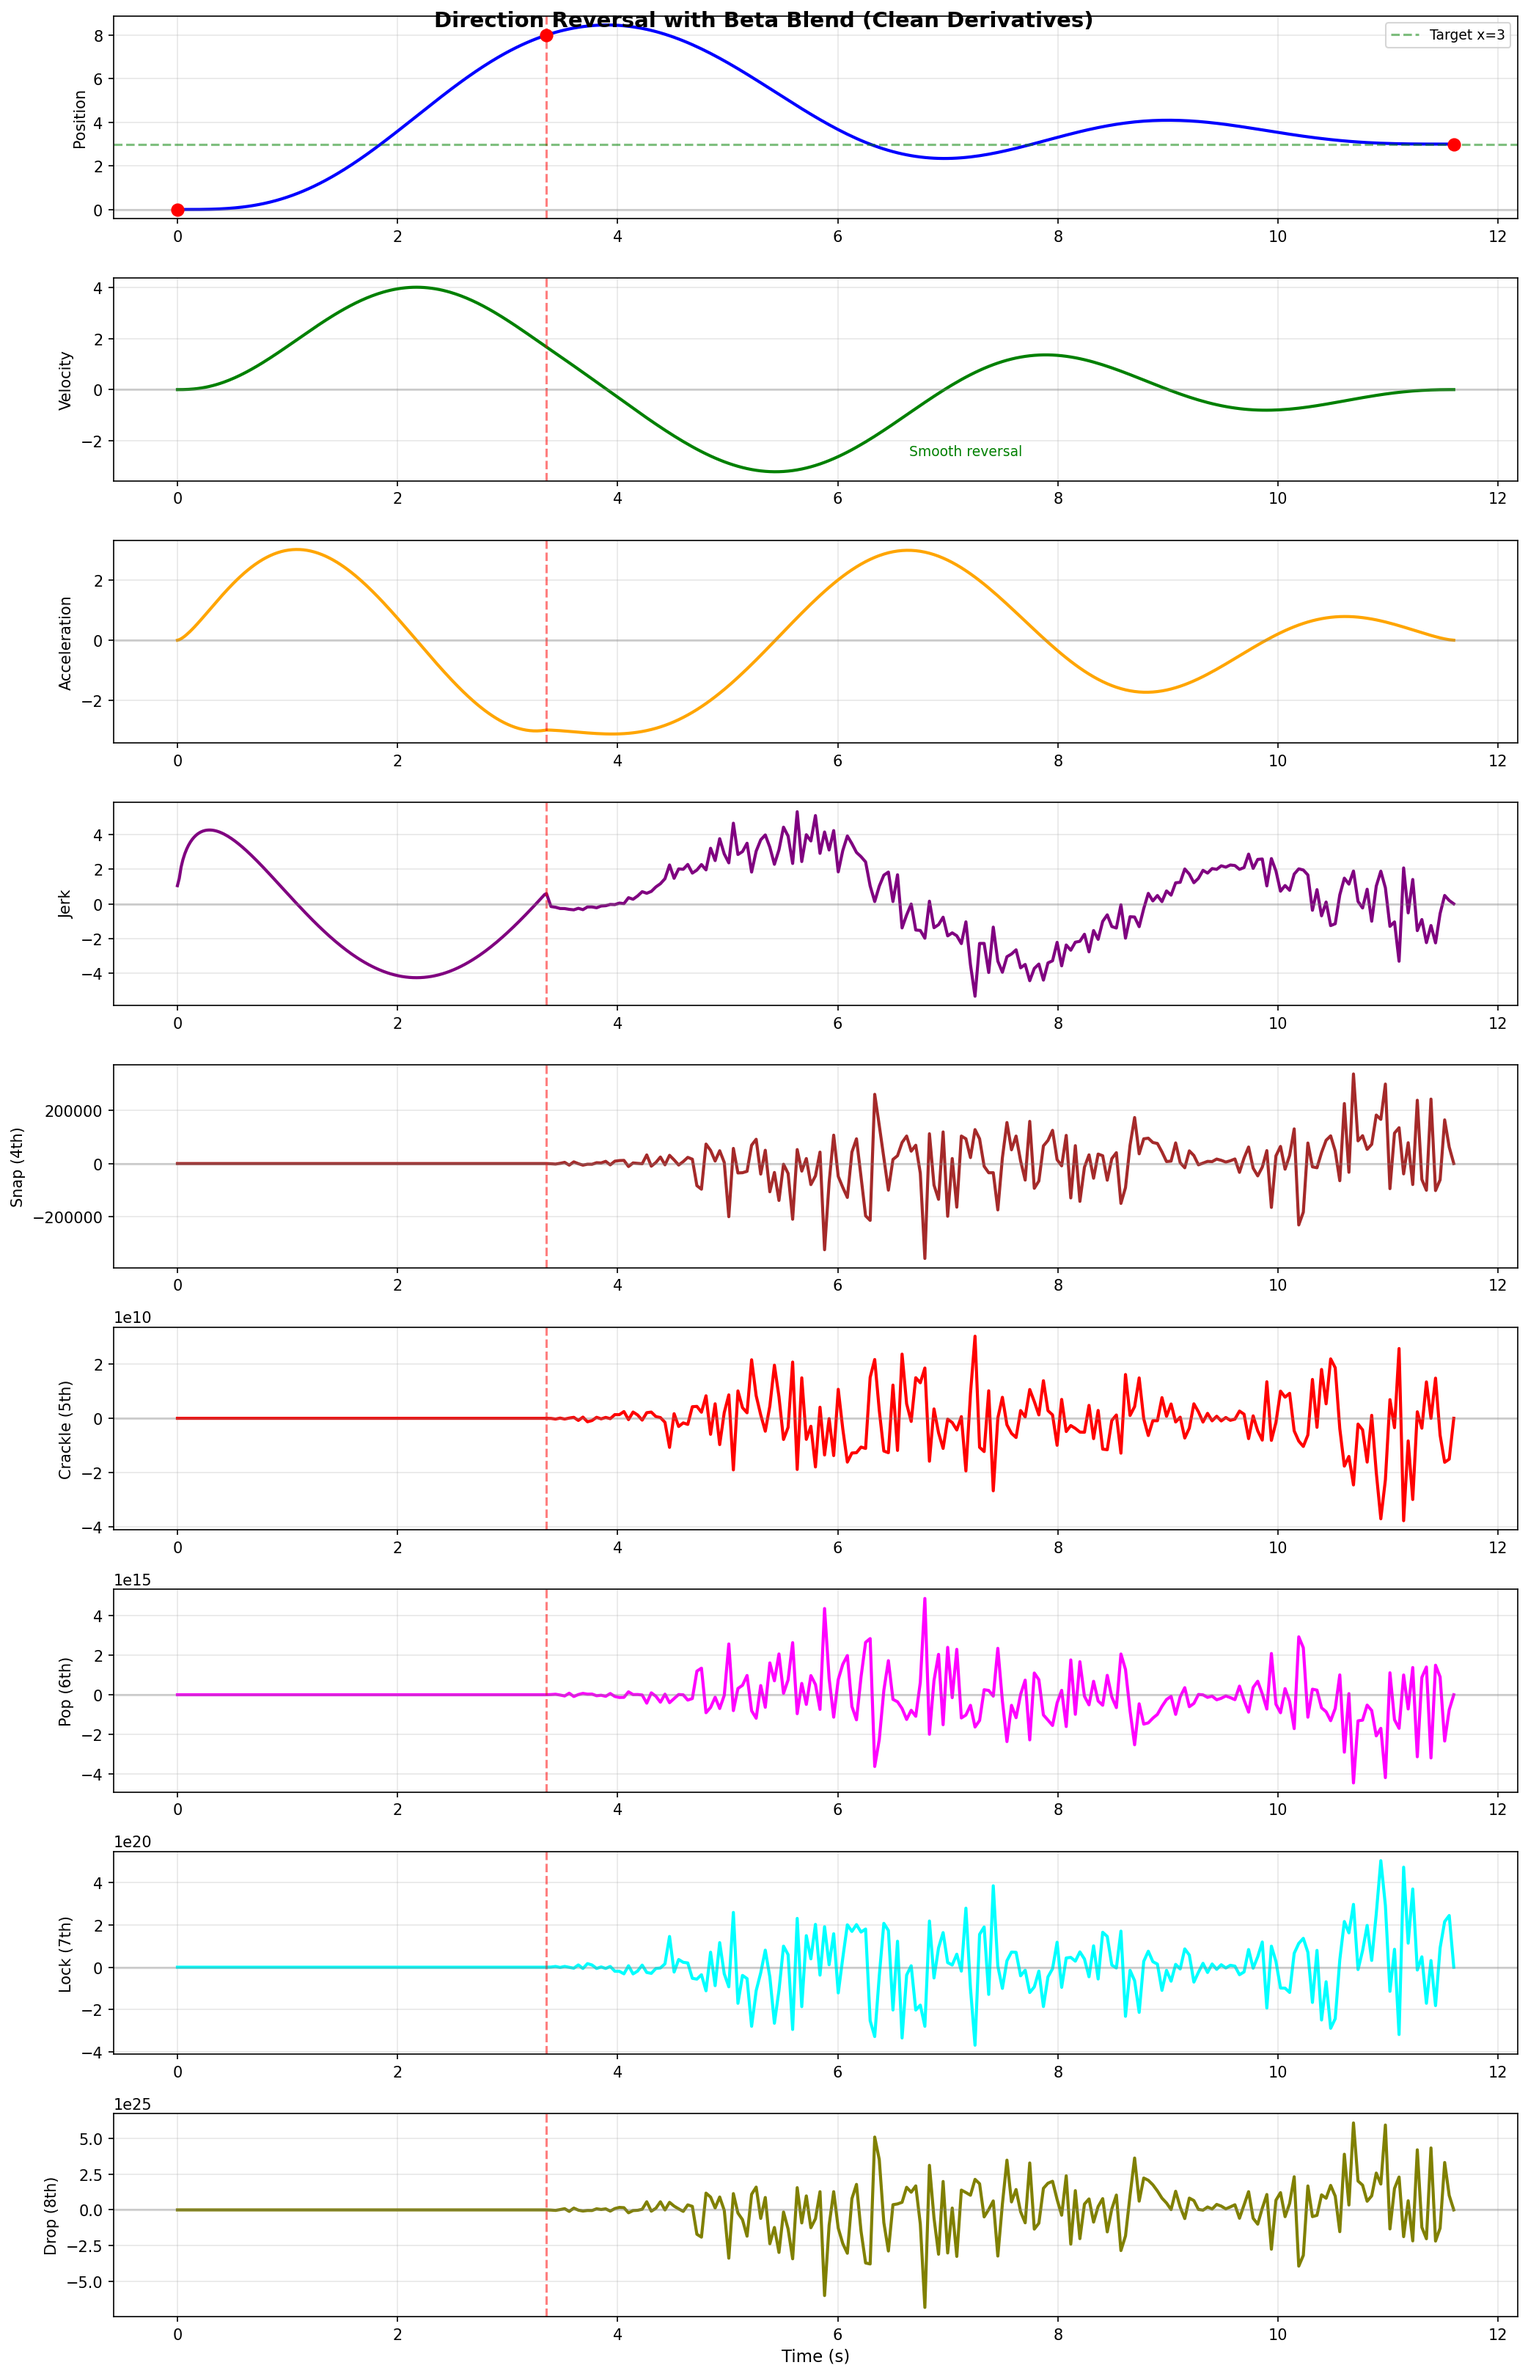
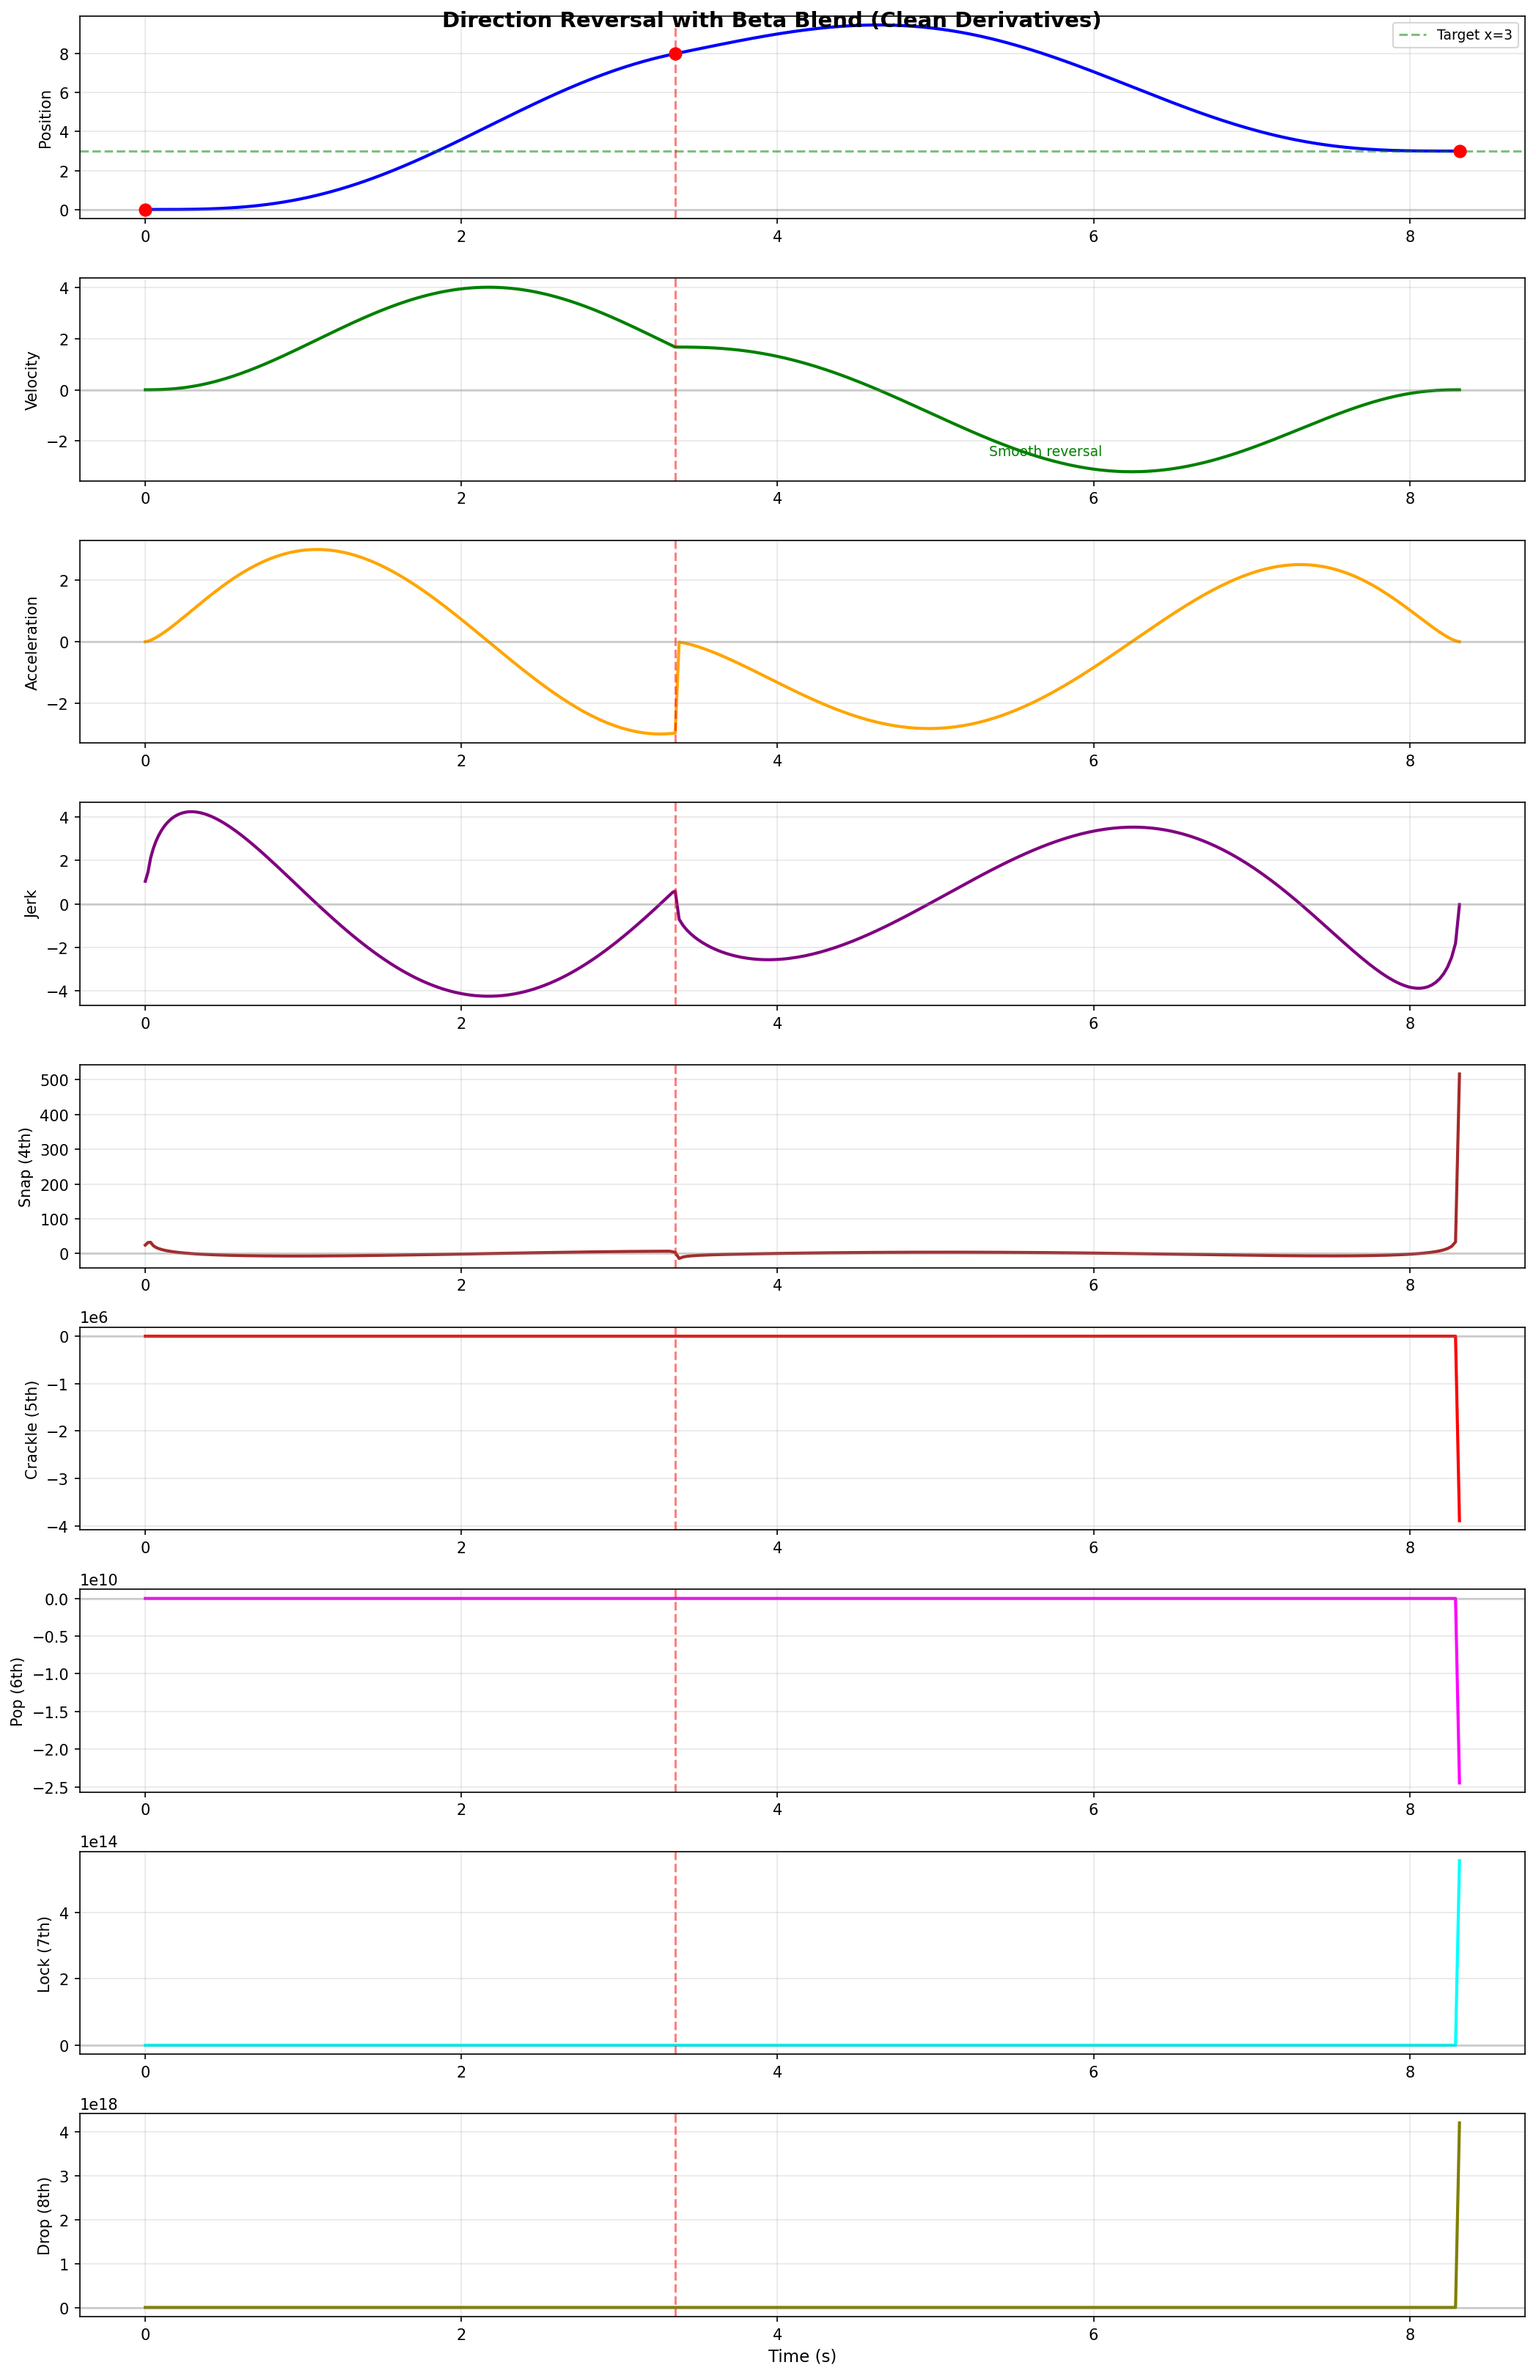
Simplify BetaBlendMotion to match only position and velocity
The previous formulation matching acceleration caused T² blowup issues,
resulting in position trajectories going wildly out of bounds (e.g., -600).

New formula: x(t) = x0 + Δx*β(τ) + v0*T*τ*(1-β(τ))

This ensures:
- Position: x(0) = x0, x(T) = x_target ✓
- Velocity: v(0) = v0, v(T) = 0 ✓
- Smooth S-curve transition without T² terms

Trade-off: Acceleration has discontinuity at transition points, but
position/velocity remain continuous and trajectories stay bounded.

diff --git a/src/scurvebeta/generalized.py b/src/scurvebeta/generalized.py
@@ -1234,16 +1234,18 @@ class BetaBlendMotion:
         """
         Compute the k-th derivative of position at time t.
 
-        Uses τ-normalized formulation to prevent T^n blowup:
-        x(t) = x0 + (x_target - x0) * β(τ) + v0*T * φ₁(τ) + 0.5*a0*T² * φ₂(τ) + ...
+        Simple τ-normalized formulation that matches position and velocity only:
+        x(t) = x0 + (x_target - x0) * β(τ) + v0*T * φ₁(τ)
 
         where:
         - τ = t/T ∈ [0,1]
-        - φ₁(τ) = τ*(1-β(τ)) matches velocity at τ=0
-        - φ₂(τ) = τ²*(1-β(τ))² matches acceleration at τ=0
-        """
-        from math import factorial
+        - φ₁(τ) = τ*(1-β(τ)) matches velocity at τ=0, goes to 0 at τ=1
 
+        This avoids the T² blowup from acceleration matching while ensuring:
+        - x(0) = x0, x(T) = x_target
+        - v(0) = v0, v(T) = 0
+        - Smooth S-curve transition
+        """
         t = np.asarray(t, dtype=float)
         scalar = t.ndim == 0
         t = np.atleast_1d(t)
@@ -1253,8 +1255,8 @@ class BetaBlendMotion:
         k = order
         tau = t / T
 
-        # Get β and its derivatives w.r.t. τ (up to order k)
-        beta_derivs = _beta_s_derivatives(tau, max_order=k)
+        # Get β and its derivatives w.r.t. τ
+        beta_derivs = _beta_s_derivatives(tau, max_order=max(k, 1))
         beta = beta_derivs[0]
         one_minus_beta = 1 - beta
 
@@ -1262,62 +1264,28 @@ class BetaBlendMotion:
         dx_target = self.x_target - self.x0
 
         if k == 0:
-            # x(t) = x0 + Δx*β + v0*T*τ*(1-β) + 0.5*a0*T²*τ²*(1-β)² + ...
-            result = self.x0 + dx_target * beta
-            result += self.v0 * T * tau * one_minus_beta
-            result += 0.5 * self.a0 * T**2 * tau**2 * one_minus_beta**2
-            result += (1/6) * self.j0 * T**3 * tau**3 * one_minus_beta**3
+            # x(t) = x0 + Δx*β + v0*T*τ*(1-β)
+            result = self.x0 + dx_target * beta + self.v0 * T * tau * one_minus_beta
+        elif k == 1:
+            # v(t) = Δx*β'/T + v0*[(1-β) - τ*β']
+            beta_prime = beta_derivs[1]
+            result = dx_target * beta_prime / T + self.v0 * (one_minus_beta - tau * beta_prime)
+        elif k == 2:
+            # a(t) = Δx*β''/T² + v0*[-2β'/T - τ*β''/T]
+            beta_prime = beta_derivs[1]
+            beta_double_prime = beta_derivs[2] if len(beta_derivs) > 2 else np.zeros_like(tau)
+            result = dx_target * beta_double_prime / (T**2)
+            result += self.v0 * (-2 * beta_prime / T - tau * beta_double_prime / T)
         else:
-            # Use Leibniz rule for derivatives
-            # For the β term: d^k/dt^k[β(τ)] = β^(k)(τ) / T^k
-            result = dx_target * beta_derivs[k] / (T ** k) if k <= len(beta_derivs) - 1 else np.zeros_like(t)
-
-            # For the v0*T*φ₁ term where φ₁ = τ*(1-β)
-            # d^k/dt^k[T*φ₁(τ)] = T * φ₁^(k)(τ) / T^k = φ₁^(k)(τ) / T^(k-1)
-            phi1_k = self._phi_deriv(tau, 1, k, beta_derivs)
-            result += self.v0 * T * phi1_k / (T ** k)
-
-            # For the 0.5*a0*T²*φ₂ term where φ₂ = τ²*(1-β)²
-            phi2_k = self._phi_deriv(tau, 2, k, beta_derivs)
-            result += 0.5 * self.a0 * T**2 * phi2_k / (T ** k)
-
-            # For the (1/6)*j0*T³*φ₃ term where φ₃ = τ³*(1-β)³
-            phi3_k = self._phi_deriv(tau, 3, k, beta_derivs)
-            result += (1/6) * self.j0 * T**3 * phi3_k / (T ** k)
+            # Higher derivatives via numerical differentiation
+            eps = 1e-5 * T
+            t_p = np.clip(t + eps, 0, T)
+            t_m = np.clip(t - eps, 0, T)
+            deriv_p = self._eval_derivative(t_p, k - 1)
+            deriv_m = self._eval_derivative(t_m, k - 1)
+            result = (deriv_p - deriv_m) / (2 * eps)
 
         return float(result[0]) if scalar else result
-
-    def _phi_deriv(self, tau, n, k, beta_derivs):
-        """
-        Compute k-th derivative of φₙ(τ) = τⁿ * (1-β(τ))ⁿ w.r.t. τ.
-
-        Uses numerical differentiation for simplicity and robustness.
-        """
-        tau = np.asarray(tau, dtype=float)
-
-        if k == 0:
-            beta = beta_derivs[0]
-            return np.power(tau, n) * np.power(np.maximum(1 - beta, 0), n)
-
-        # Numerical differentiation
-        eps = 1e-6
-        if k == 1:
-            tau_p = np.clip(tau + eps, 0, 1)
-            tau_m = np.clip(tau - eps, 0, 1)
-            beta_p = _beta_s(tau_p)
-            beta_m = _beta_s(tau_m)
-            phi_p = np.power(tau_p, n) * np.power(np.maximum(1 - beta_p, 0), n)
-            phi_m = np.power(tau_m, n) * np.power(np.maximum(1 - beta_m, 0), n)
-            return (phi_p - phi_m) / (tau_p - tau_m + 1e-15)
-        else:
-            # Higher derivatives via central difference on lower derivative
-            tau_p = np.clip(tau + eps, 0, 1)
-            tau_m = np.clip(tau - eps, 0, 1)
-            beta_p = _beta_s_derivatives(tau_p, max_order=k-1)
-            beta_m = _beta_s_derivatives(tau_m, max_order=k-1)
-            dphi_p = self._phi_deriv(tau_p, n, k-1, beta_p)
-            dphi_m = self._phi_deriv(tau_m, n, k-1, beta_m)
-            return (dphi_p - dphi_m) / (tau_p - tau_m + 1e-15)
 
     def position(self, t):
         """Get position at time t."""
